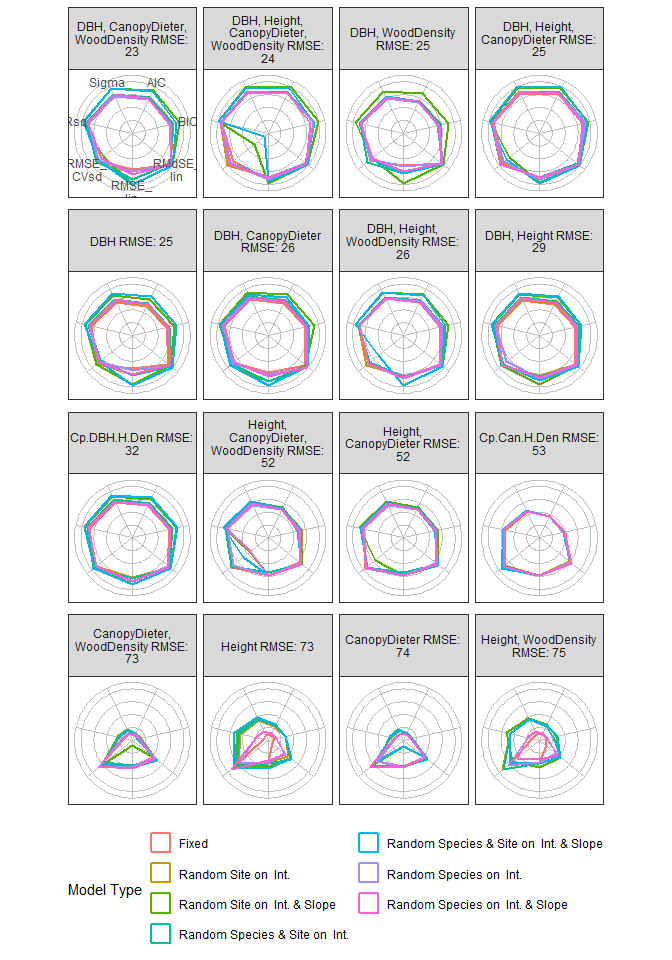
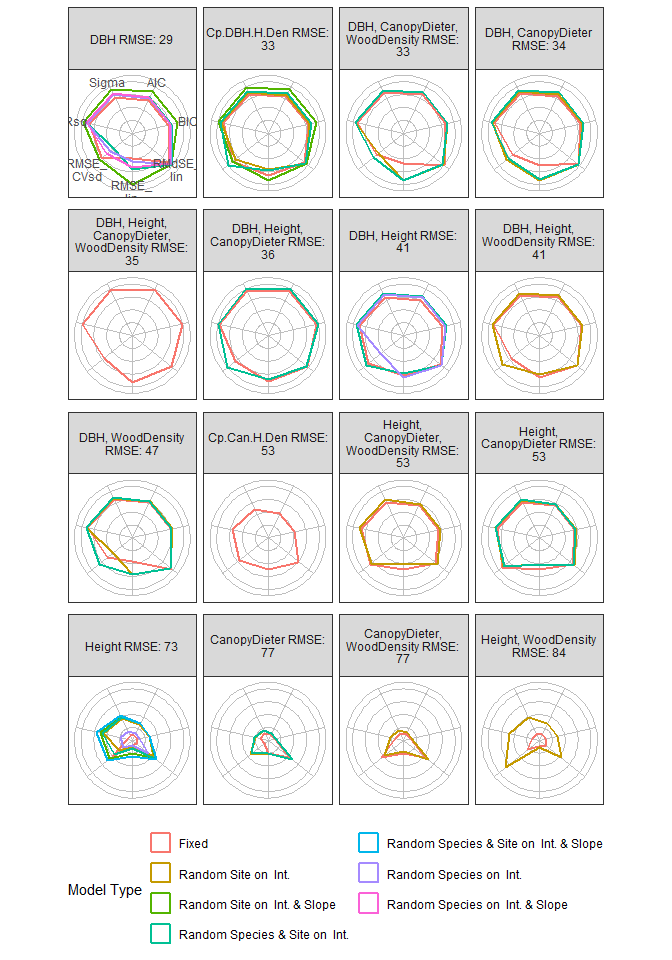
updating spiderweb figure

diff --git a/README.md b/README.md
@@ -283,7 +283,7 @@ metrics of the fixed effects models are demonstrated further below, as
 they will be included with those from mixed effects models from the same
 set of predictor variables.
 
-    ## R RNG seed set to 707709
+    ## R RNG seed set to 576531
 
     ## # A tibble: 1 × 5
     ##   `(Intercept)_Fixed` slope.var1_Fixed slope.var2_Fixed VIF.var1_Fixed VIF.var2_Fixed
@@ -686,7 +686,7 @@ checks <- lapply(unique(performance_ranked$ModelName),function(x){
 
 <div class="figure">
 
-<img src="C:\Users\BENJAM~1\AppData\Local\Temp\RtmpkbBgeE\filee9c43c4d3321.png" alt="An example of the assumptions plots for model '20.MixedInt_Species&amp;Site'. Each panel is a visual representation of the model assumptions. Many of the top-performing models seem to be satisfactory in meeting these assumptions, but some are not. All top model assumption plots are stored in the 'Assumptions' folder of the repository." width="100%" />
+<img src="C:\Users\BENJAM~1\AppData\Local\Temp\RtmpMdgzEY\file1189060b93a74.png" alt="An example of the assumptions plots for model '20.MixedInt_Species&amp;Site'. Each panel is a visual representation of the model assumptions. Many of the top-performing models seem to be satisfactory in meeting these assumptions, but some are not. All top model assumption plots are stored in the 'Assumptions' folder of the repository." width="100%" />
 <p class="caption">
 
 An example of the assumptions plots for model
@@ -761,6 +761,7 @@ perfs2 <- lapply(modskeep_df |>
                    filter(!(Effects=="Fixed"&MixedEffects %in% c("Species","Site")))%>%rename(Sigma=Sig))
 
 perfs2 <- do.call(rbind,perfs2) |>
+   filter(Effects=="Fixed"|(!is.na(ICC)&ICC>.1))|>
   mutate(Model.x=if_else(grepl("Mixed",Effects),"lmerMod","lm"),
          Model.y=gsub("log|.cm|.m|.g.cm3","",Model)) |>
   # separate the random effects and the random variables
